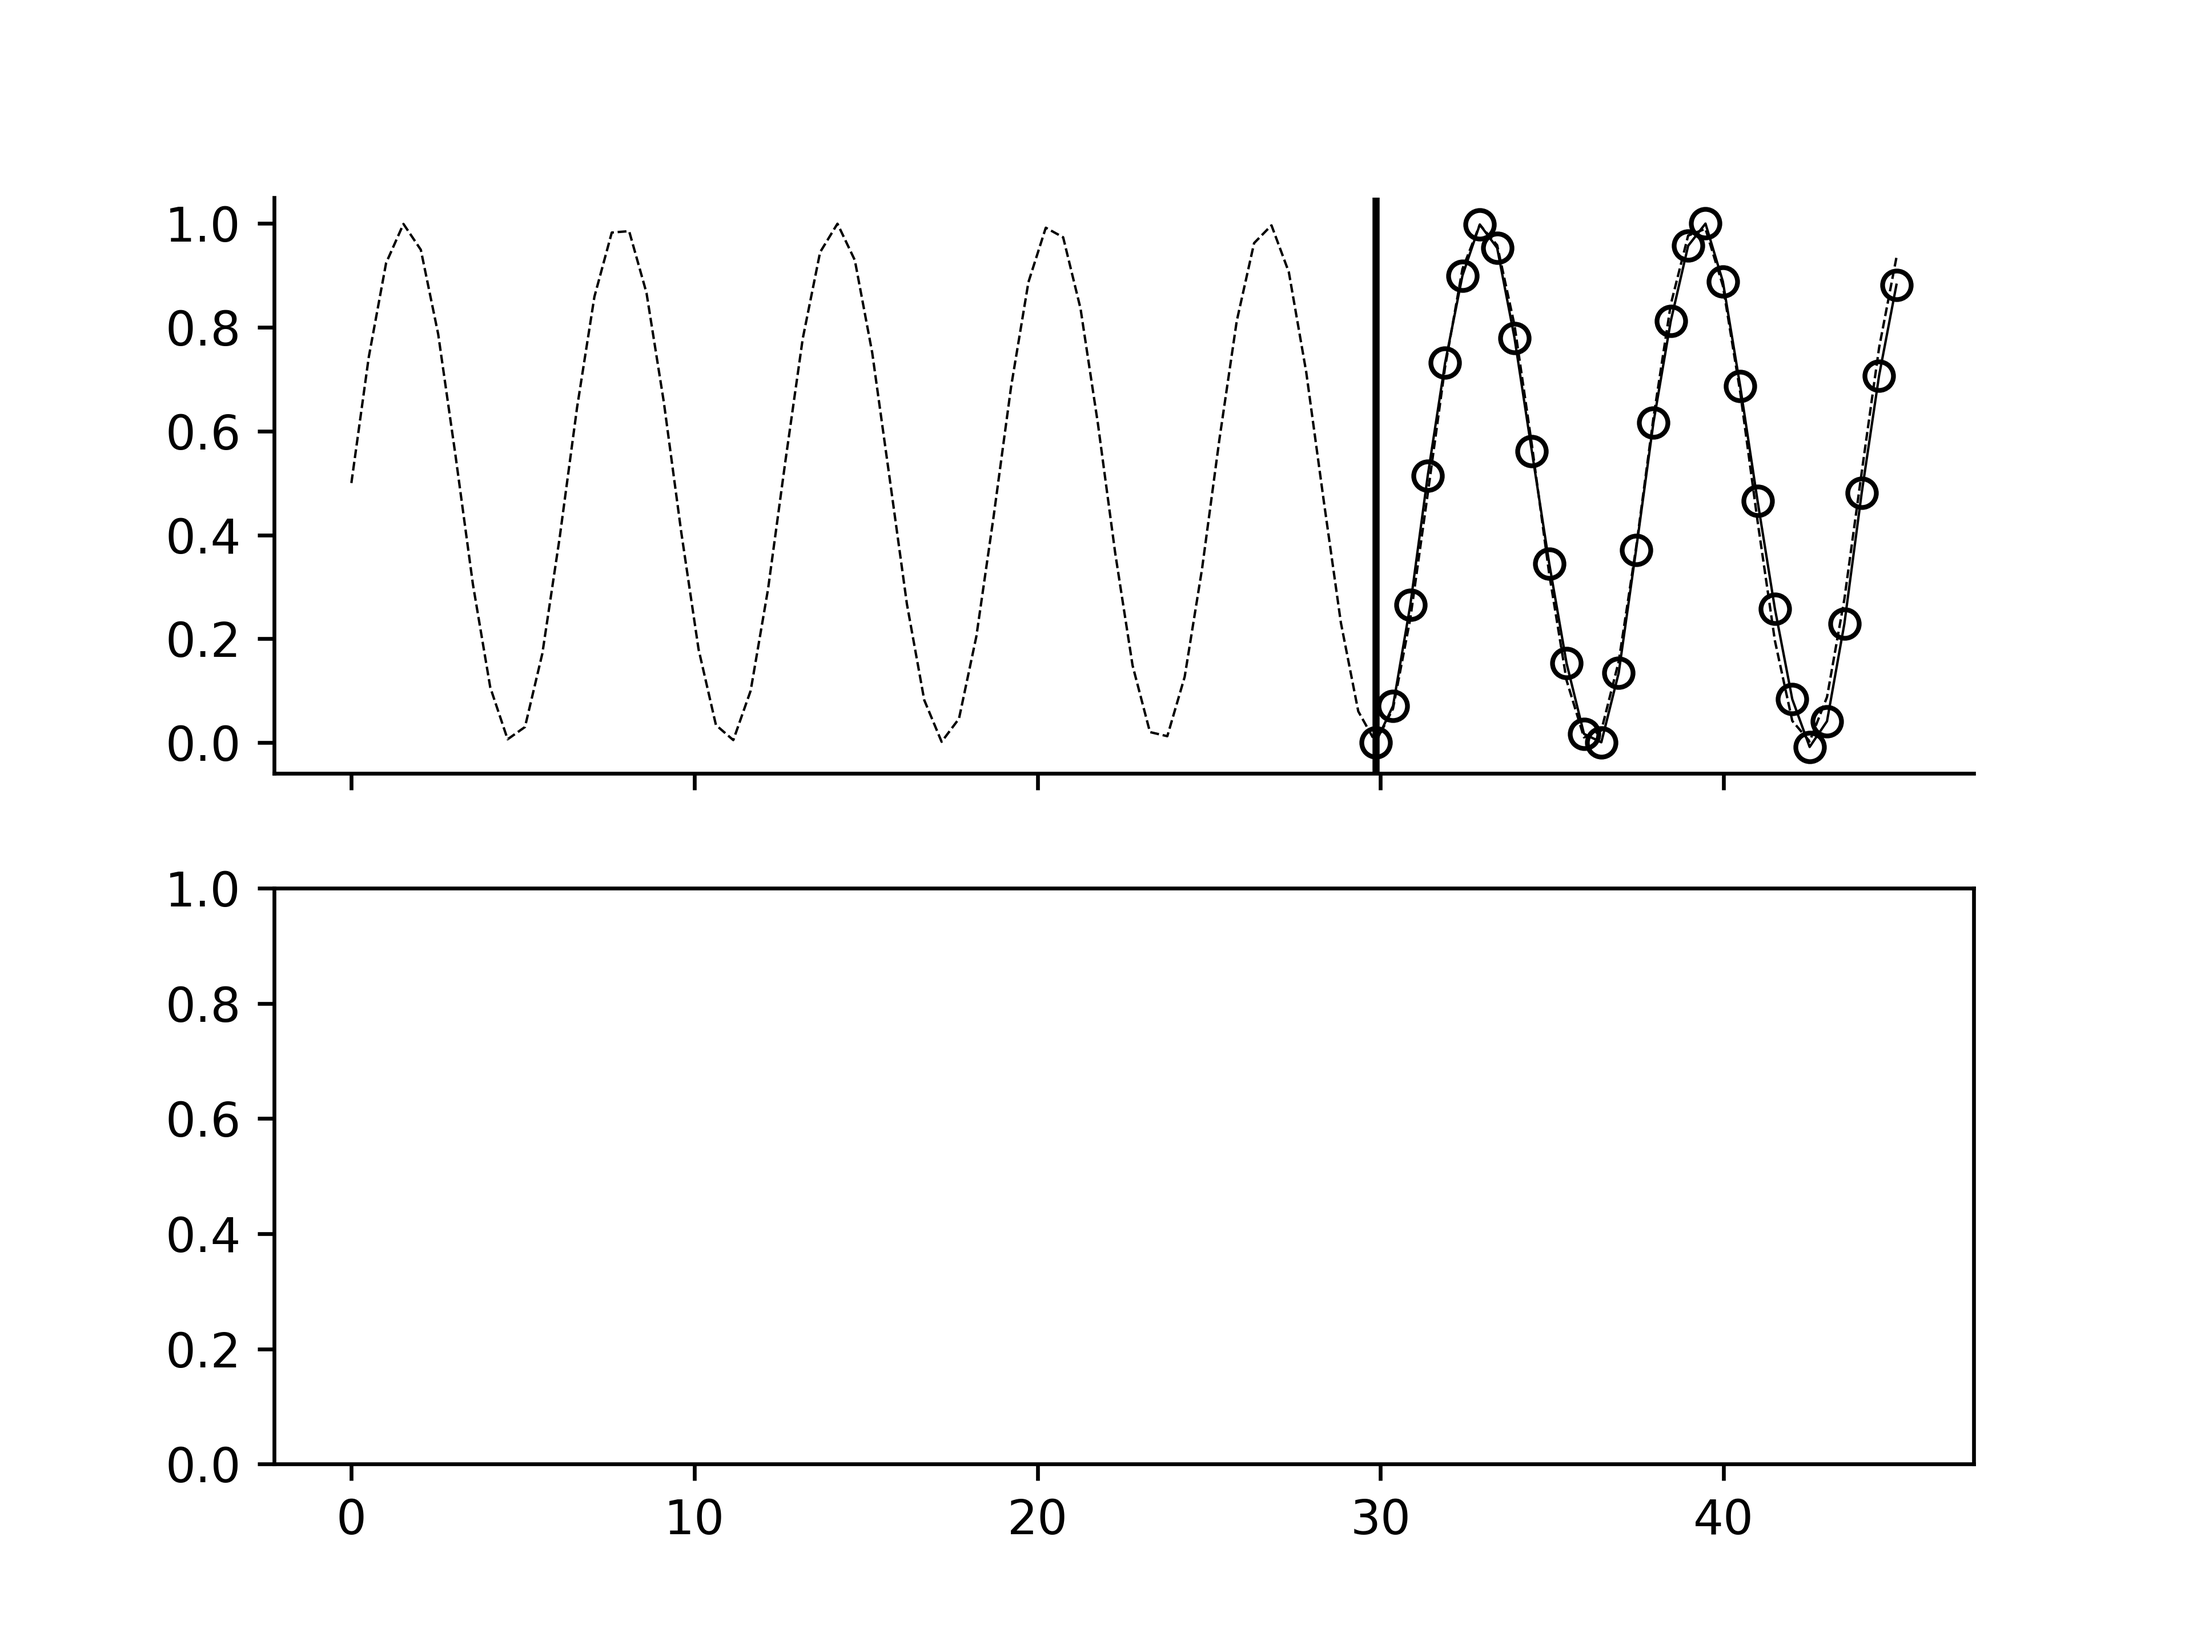
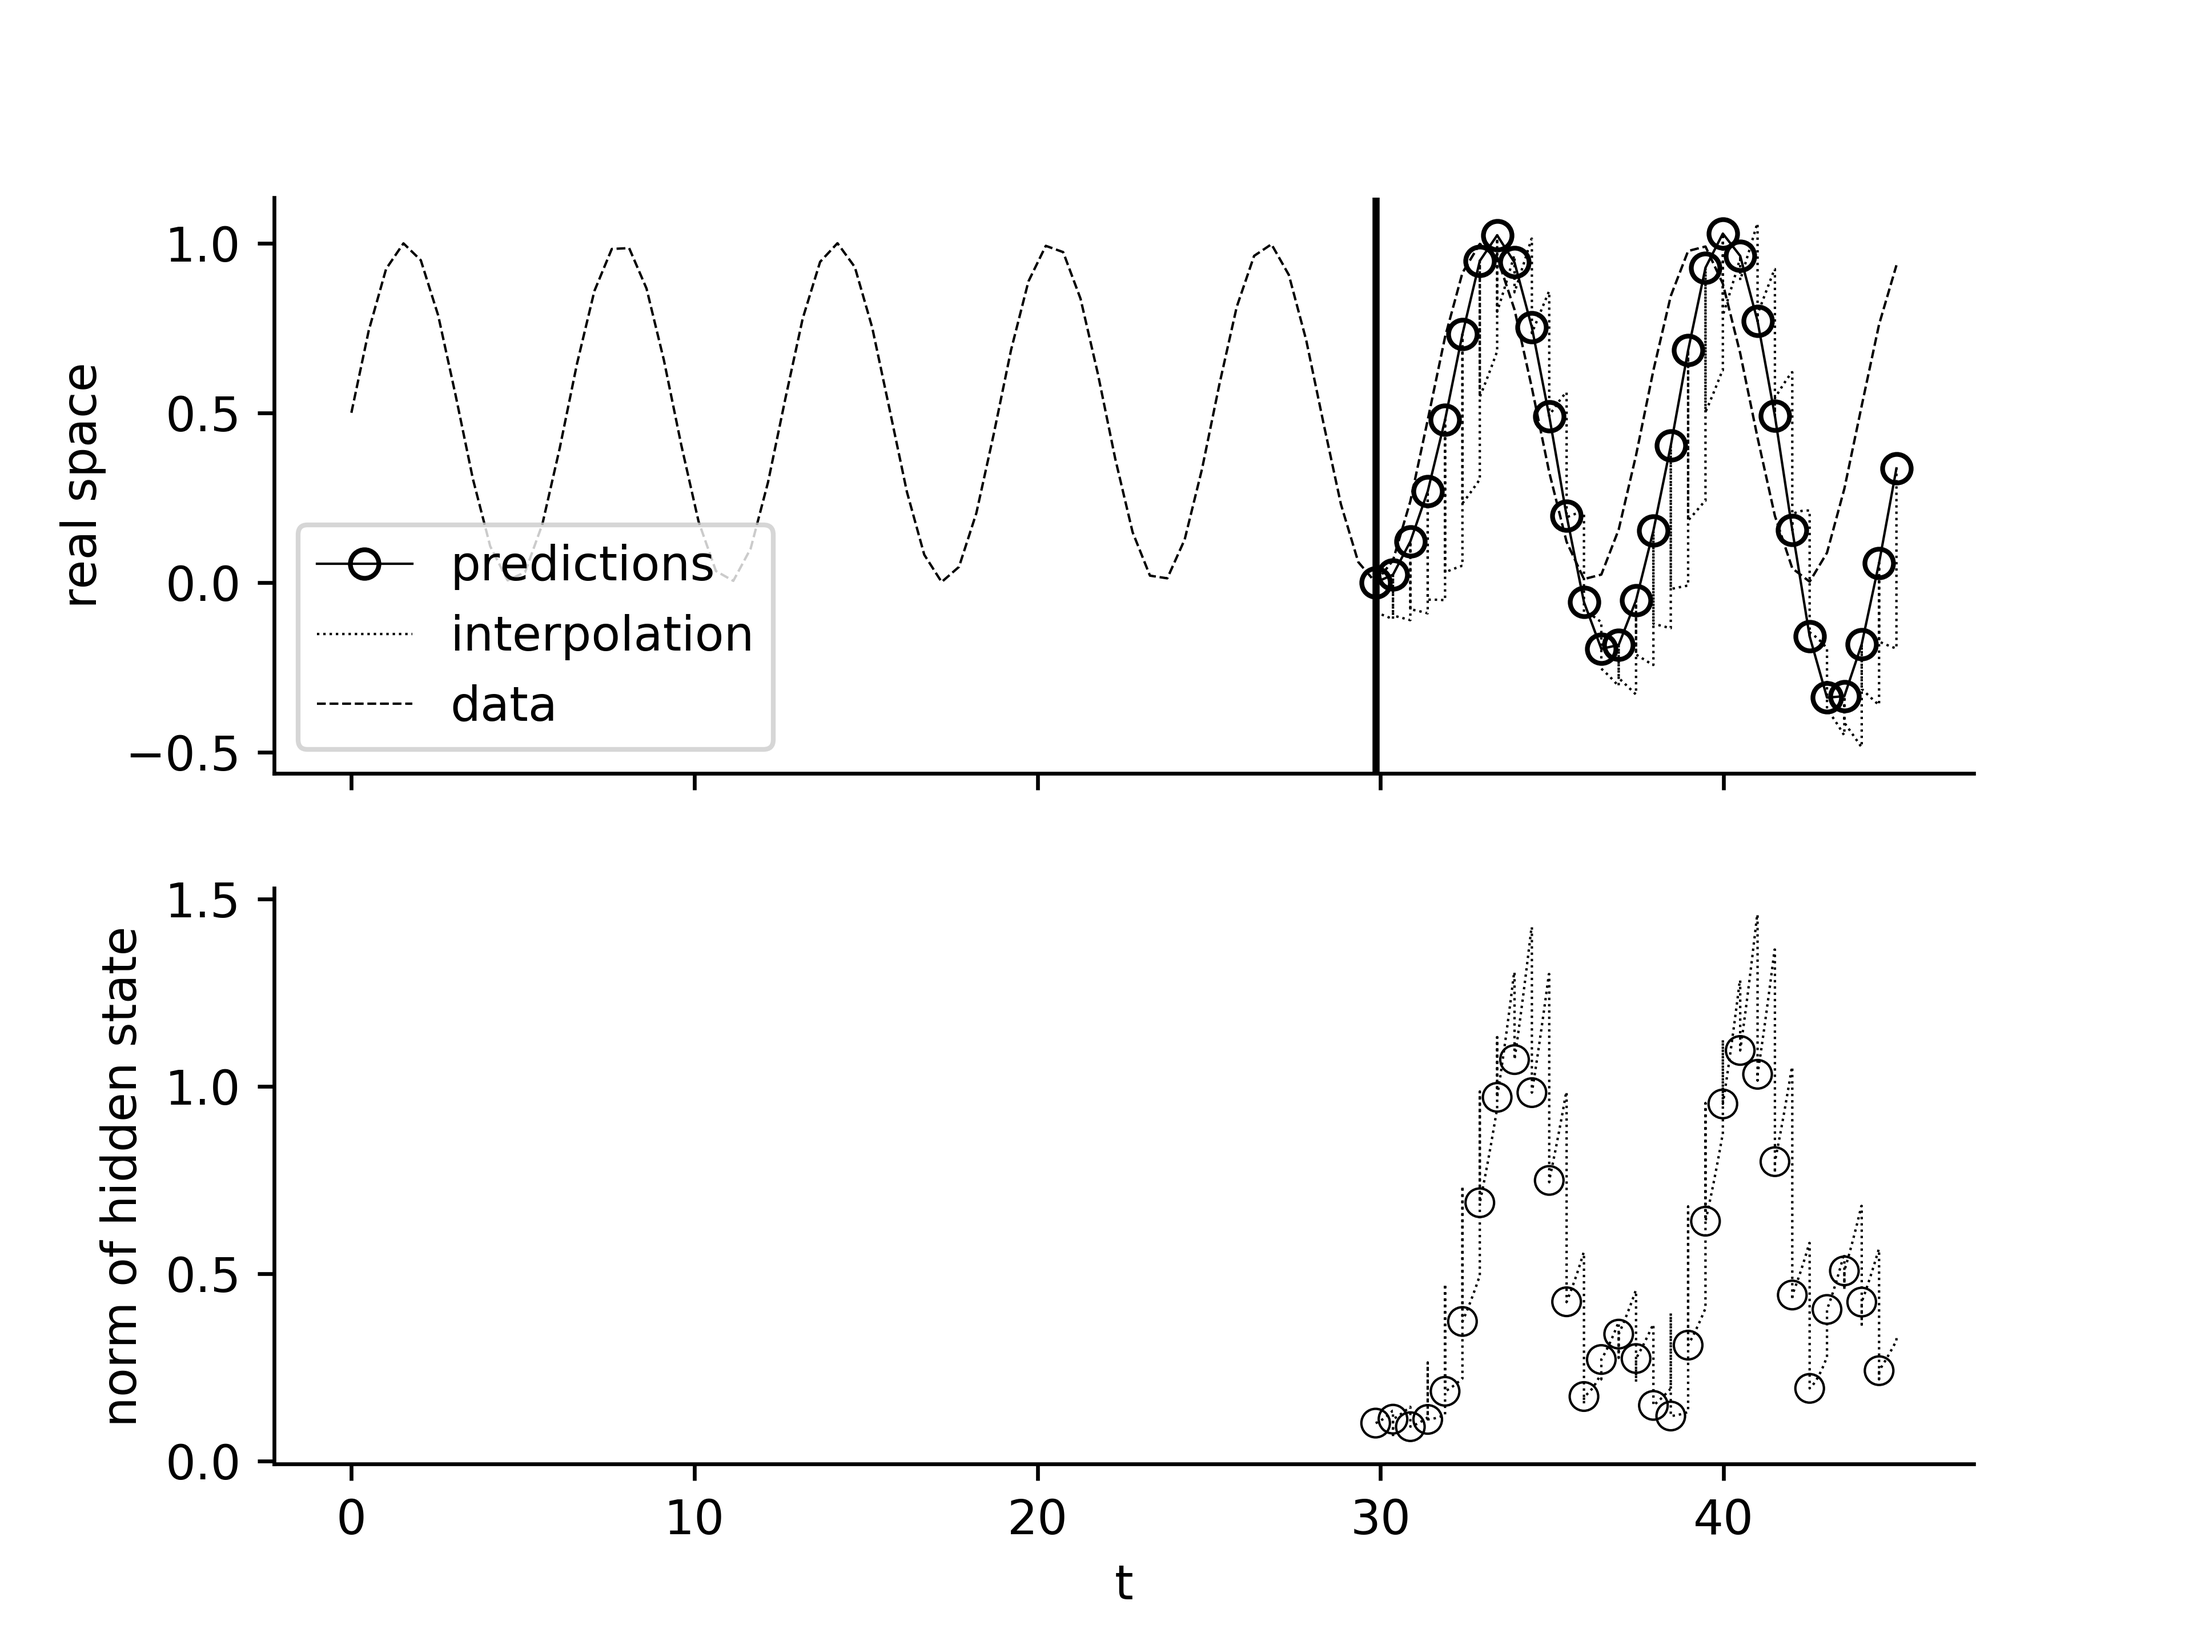
Work in Progress on Training Regular ODE

diff --git a/ode_demo.py b/ode_demo.py
@@ -1,0 +1,192 @@
+import os
+import argparse
+import time
+import numpy as np
+
+import torch
+import torch.nn as nn
+import torch.optim as optim
+
+parser = argparse.ArgumentParser('ODE demo')
+parser.add_argument('--method', type=str, choices=['dopri5', 'adams'], default='dopri5')
+parser.add_argument('--data_size', type=int, default=1000)
+parser.add_argument('--batch_time', type=int, default=10)
+parser.add_argument('--batch_size', type=int, default=20)
+parser.add_argument('--niters', type=int, default=2000)
+parser.add_argument('--test_freq', type=int, default=20)
+parser.add_argument('--viz', action='store_true')
+parser.add_argument('--gpu', type=int, default=0)
+parser.add_argument('--adjoint', action='store_true')
+args = parser.parse_args()
+
+if args.adjoint:
+    from torchdiffeq import odeint_adjoint as odeint
+else:
+    from torchdiffeq import odeint
+
+device = torch.device('cuda:' + str(args.gpu) if torch.cuda.is_available() else 'cpu')
+
+true_y0 = torch.tensor([[2., 0.]]).to(device)
+t = torch.linspace(0., 25., args.data_size).to(device)
+print(t)
+print(t.size())
+true_A = torch.tensor([[-0.1, 2.0], [-2.0, -0.1]]).to(device)
+
+
+class Lambda(nn.Module):
+
+    def forward(self, t, y):
+        return torch.mm(y**3, true_A)
+
+
+with torch.no_grad():
+    true_y = odeint(Lambda(), true_y0, t, method='dopri5')
+
+
+def get_batch():
+    s = torch.from_numpy(np.random.choice(np.arange(args.data_size - args.batch_time, dtype=np.int64), args.batch_size, replace=False))
+    batch_y0 = true_y[s]  # (M, D)
+    batch_t = t[:args.batch_time]  # (T)
+    batch_y = torch.stack([true_y[s + i] for i in range(args.batch_time)], dim=0)  # (T, M, D)
+    print("y0 size: ", batch_y0.size())
+    print("y0: ", batch_y0)
+    print("t size: ", batch_t.size())
+    print("t: ", batch_t)
+    print("y size: ", batch_y.size())
+    #print("y: ", batch_y)
+    return batch_y0.to(device), batch_t.to(device), batch_y.to(device)
+
+
+def makedirs(dirname):
+    if not os.path.exists(dirname):
+        os.makedirs(dirname)
+
+
+if args.viz:
+    makedirs('png')
+    import matplotlib.pyplot as plt
+    fig = plt.figure(figsize=(12, 4), facecolor='white')
+    ax_traj = fig.add_subplot(131, frameon=False)
+    ax_phase = fig.add_subplot(132, frameon=False)
+    ax_vecfield = fig.add_subplot(133, frameon=False)
+    plt.show(block=False)
+
+
+def visualize(true_y, pred_y, odefunc, itr):
+
+    if args.viz:
+
+        ax_traj.cla()
+        ax_traj.set_title('Trajectories')
+        ax_traj.set_xlabel('t')
+        ax_traj.set_ylabel('x,y')
+        ax_traj.plot(t.cpu().numpy(), true_y.cpu().numpy()[:, 0, 0], t.cpu().numpy(), true_y.cpu().numpy()[:, 0, 1], 'g-')
+        ax_traj.plot(t.cpu().numpy(), pred_y.cpu().numpy()[:, 0, 0], '--', t.cpu().numpy(), pred_y.cpu().numpy()[:, 0, 1], 'b--')
+        ax_traj.set_xlim(t.cpu().min(), t.cpu().max())
+        ax_traj.set_ylim(-2, 2)
+        ax_traj.legend()
+
+        ax_phase.cla()
+        ax_phase.set_title('Phase Portrait')
+        ax_phase.set_xlabel('x')
+        ax_phase.set_ylabel('y')
+        ax_phase.plot(true_y.cpu().numpy()[:, 0, 0], true_y.cpu().numpy()[:, 0, 1], 'g-')
+        ax_phase.plot(pred_y.cpu().numpy()[:, 0, 0], pred_y.cpu().numpy()[:, 0, 1], 'b--')
+        ax_phase.set_xlim(-2, 2)
+        ax_phase.set_ylim(-2, 2)
+
+        ax_vecfield.cla()
+        ax_vecfield.set_title('Learned Vector Field')
+        ax_vecfield.set_xlabel('x')
+        ax_vecfield.set_ylabel('y')
+
+        y, x = np.mgrid[-2:2:21j, -2:2:21j]
+        dydt = odefunc(0, torch.Tensor(np.stack([x, y], -1).reshape(21 * 21, 2)).to(device)).cpu().detach().numpy()
+        mag = np.sqrt(dydt[:, 0]**2 + dydt[:, 1]**2).reshape(-1, 1)
+        dydt = (dydt / mag)
+        dydt = dydt.reshape(21, 21, 2)
+
+        ax_vecfield.streamplot(x, y, dydt[:, :, 0], dydt[:, :, 1], color="black")
+        ax_vecfield.set_xlim(-2, 2)
+        ax_vecfield.set_ylim(-2, 2)
+
+        fig.tight_layout()
+        plt.savefig('png/{:03d}'.format(itr))
+        plt.draw()
+        plt.pause(0.001)
+
+
+class ODEFunc(nn.Module):
+
+    def __init__(self):
+        super(ODEFunc, self).__init__()
+
+        self.net = nn.Sequential(
+            nn.Linear(2, 50),
+            nn.Tanh(),
+            nn.Linear(50, 2),
+        )
+
+        for m in self.net.modules():
+            if isinstance(m, nn.Linear):
+                nn.init.normal_(m.weight, mean=0, std=0.1)
+                nn.init.constant_(m.bias, val=0)
+
+    def forward(self, t, y):
+        return self.net(y**3)
+
+
+class RunningAverageMeter(object):
+    """Computes and stores the average and current value"""
+
+    def __init__(self, momentum=0.99):
+        self.momentum = momentum
+        self.reset()
+
+    def reset(self):
+        self.val = None
+        self.avg = 0
+
+    def update(self, val):
+        if self.val is None:
+            self.avg = val
+        else:
+            self.avg = self.avg * self.momentum + val * (1 - self.momentum)
+        self.val = val
+
+
+if __name__ == '__main__':
+
+    ii = 0
+
+    func = ODEFunc().to(device)
+    
+    optimizer = optim.RMSprop(func.parameters(), lr=1e-3)
+    end = time.time()
+
+    time_meter = RunningAverageMeter(0.97)
+    
+    loss_meter = RunningAverageMeter(0.97)
+
+    for itr in range(1, args.niters + 1):
+        optimizer.zero_grad()
+        batch_y0, batch_t, batch_y = get_batch()
+        pred_y = odeint(func, batch_y0, batch_t).to(device)
+        # print("PREDICTION: ", pred_y, pred_y.size())
+        # print("LABEL: ", batch_y, batch_y.size())
+        loss = torch.mean(torch.abs(pred_y - batch_y))
+        loss.backward()
+        optimizer.step()
+
+        time_meter.update(time.time() - end)
+        loss_meter.update(loss.item())
+
+        if itr % args.test_freq == 0:
+            with torch.no_grad():
+                pred_y = odeint(func, true_y0, t)
+                loss = torch.mean(torch.abs(pred_y - true_y))
+                print('Iter {:04d} | Total Loss {:.6f}'.format(itr, loss.item()))
+                visualize(true_y, pred_y, func, ii)
+                ii += 1
+
+        end = time.time()

diff --git a/train2.py b/train2.py
@@ -1,0 +1,137 @@
+
+import time
+import random
+import numpy as np
+import matplotlib.pyplot as plt
+
+import torch
+import torch.nn as nn
+import torch.optim as optim
+
+from torchdiffeq import odeint
+
+from without_crossbar.ode_func import ODE_Func
+from without_crossbar.loss_meter import RunningAverageMeter
+
+pi = 3.14159265359
+
+# MAKE DATA
+n_pts = 150
+size = 1
+tw = 10
+cutoff = 50
+
+# Get training data from sine function
+x = torch.linspace(0, 24*pi, n_pts).view(1, -1)
+y = torch.sin(x) / 2 + 0.5
+
+tensor_x = x.to()
+# print(tensor_x.size())
+tensor_y = y.to()
+# print(tensor_y.size())
+
+def get_batch(index):
+    batch_y0 = tensor_y[0][index:index+tw]
+    batch_t = tensor_x[0][index:index+tw]
+    batch_y = torch.stack([tensor_y[0][index + i] for i in range(tw)], dim=0)
+    # print("y0", batch_y0.size())
+    # print("t", batch_t.size())
+    # print("y", batch_y.size())
+    return batch_y0.to(), batch_t.to(), batch_y.to()
+
+ode_func = ODE_Func(10, 4, 10)
+
+optimizer = optim.RMSprop(ode_func.parameters(), lr=1e-3)
+end = time.time()
+
+time_meter = RunningAverageMeter(0.97)
+loss_meter = RunningAverageMeter(0.97)
+
+# TRAIN MODELS AND PLOT
+time_steps = 50
+epochs = 100
+num_predict = 30
+start_time = time.time()
+
+index = 0
+
+loss_history = []
+
+for epoch in range(epochs):
+
+    optimizer.zero_grad()
+
+    batch_y0, batch_t, batch_y = get_batch(index)
+    # print("batch y0 ", batch_y0)
+    # print("batch t ", batch_t)
+    # print("batch y ", batch_y)
+    index += 1
+
+    prediction = odeint(ode_func, batch_y0, batch_t)
+    print("PREDICTION: ", prediction.size())
+    print("LABEL: ", batch_y.size())
+    loss = torch.mean(torch.abs(prediction - batch_y))
+    print("LOSS: ", loss)
+    loss.backward()
+    optimizer.step()
+
+    time_meter.update(time.time() - end)
+    loss_meter.update(loss.item())
+
+    end = time.time()
+
+    loss_history.append(loss)
+
+batch_y0, batch_t, batch_y = get_batch(0)
+
+output = []
+all_t = []
+
+# with torch.no_grad():
+#     for i in range(num_predict):
+#         prediction = odeint(ode_func, batch_y0, batch_t).reshape(1, -1, 1)
+#         all_t.append(batch_t[-1].unsqueeze(0))
+#         output.append(prediction)
+
+#     output = torch.cat(output, axis=0)
+#     all_t = torch.cat(all_t, axis=0)
+
+with torch.no_grad():
+    for i in range(num_predict):
+        prediction = odeint(ode_func, batch_y0, batch_t).reshape(1, -1, 1)
+        output.append(prediction)
+
+fig1, (ax1) = plt.subplots(nrows=1, sharex=True)
+output = torch.cat(output, axis=0)
+print(output.view(-1)[30:50].size())
+
+ax1.plot(torch.cat(
+                 (y.view(-1)[cutoff + tw - 1].view(-1), output.view(-1)[30:50]), axis=0),
+             'o-',
+             linewidth=0.5,
+             color='k',
+             markerfacecolor='none')
+
+# ax1.plot(torch.cat((x.view(-1)[cutoff + tw - 1].view(-1), all_t.view(-1)), axis=0),
+#              torch.cat(
+#                  (y.view(-1)[cutoff + tw - 1].view(-1), output.view(-1)), axis=0),
+#              'o-',
+#              linewidth=0.5,
+#              color='k',
+#              markerfacecolor='none',
+#              )
+
+fig3, ax3 = plt.subplots()
+
+ax3.plot(list(range(epochs)),
+             loss_history,
+             linewidth=0.5,
+             color='pink')
+
+ax1.plot(x.squeeze()[:cutoff+num_predict+tw], y.squeeze()[:cutoff +
+                                                          num_predict+tw], linewidth=0.5, color='k', linestyle='dashed')
+ax1.axvline(x=float(x.squeeze()[cutoff + tw - 1]), color='k')
+ax1.spines['right'].set_visible(False)
+ax1.spines['top'].set_visible(False)
+
+plt.show()

diff --git a/train.py b/train.py
@@ -14,6 +14,8 @@ def train(examples, model, epochs):
             
             optimizer.zero_grad()
             prediction = model(example)
+            # print("PREDICTION: ", prediction.size())
+            # print("LABEL: ", label.size())
             loss = loss_function(prediction, label)
             epoch_loss.append(loss)
             loss.backward()
